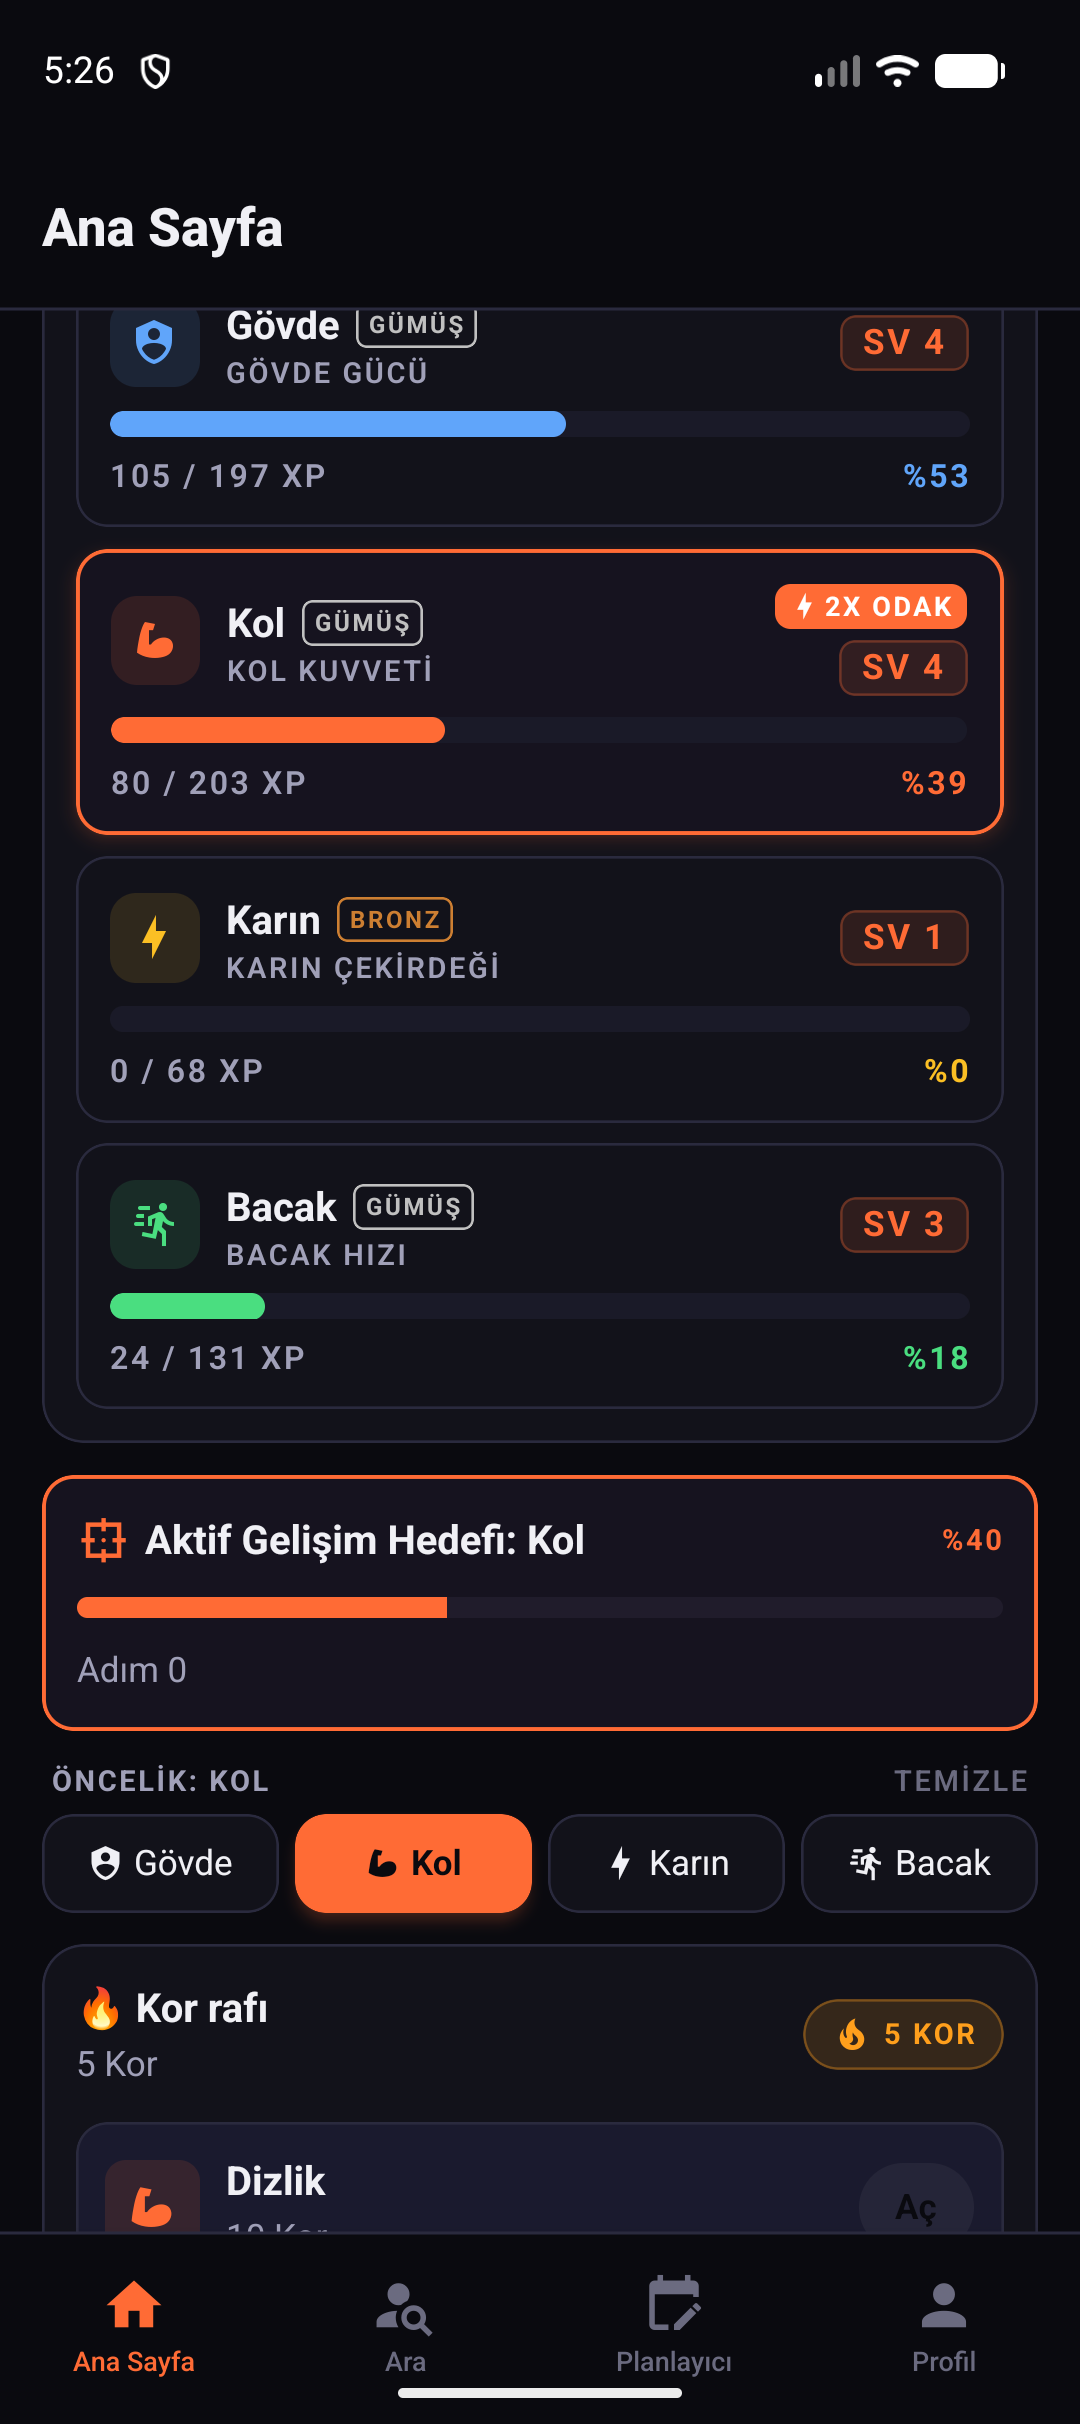
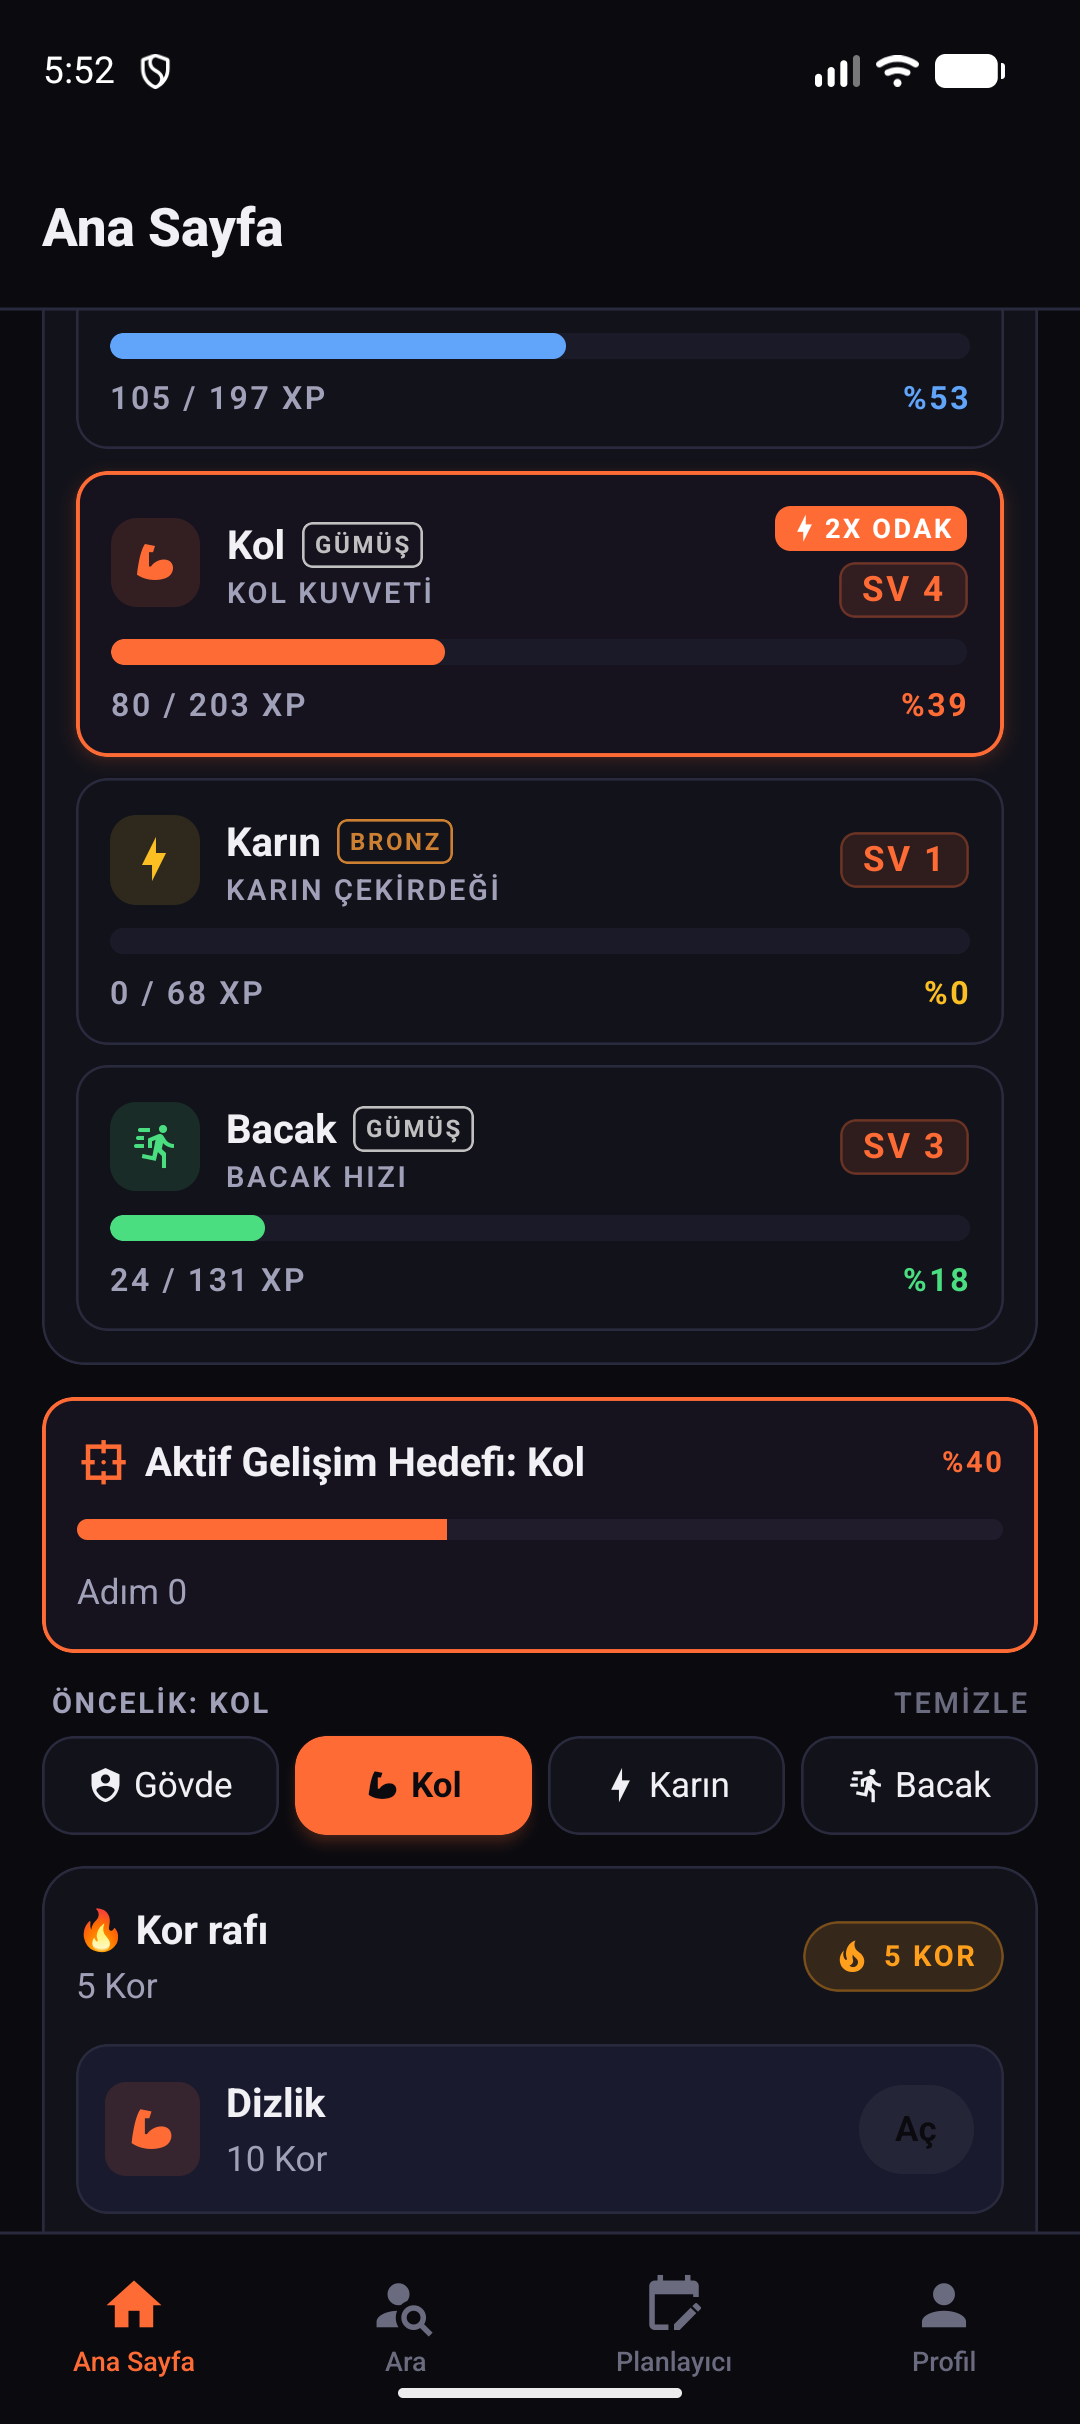
feat(branding): Unify Stickman Tycoon Workout app name across i18n locales, add arcade rumble to LevelUp modal, and update home screenshots

Changed region(s): [[0.0306, 0.1238, 0.9778, 0.9282], [0.55, 0.6807, 0.9778, 0.9282], [0.0611, 0.0, 0.0917, 0.0309]]

diff --git a/src/components/LevelUpModal.tsx b/src/components/LevelUpModal.tsx
@@ -1,5 +1,5 @@
 import React, { useEffect, useState } from 'react';
-import { StyleSheet, View, Modal, Dimensions } from 'react-native';
+import { StyleSheet, View, Modal, Dimensions, Vibration } from 'react-native';
 import { useTranslation } from 'react-i18next';
 import Animated, { FadeIn, FadeOut, ZoomIn } from 'react-native-reanimated';
 import ConfettiCannon from 'react-native-confetti-cannon';
@@ -30,6 +30,9 @@ export const LevelUpModal: React.FC<LevelUpModalProps> = ({
   useEffect(() => {
     if (visible) {
       setDisplayedMass(previousLevel);
+      try {
+        Vibration.vibrate([0, 100, 80, 200, 100, 300]);
+      } catch (_) {}
       
       // Animate muscle mass growth over time
       const delay = setTimeout(() => {
